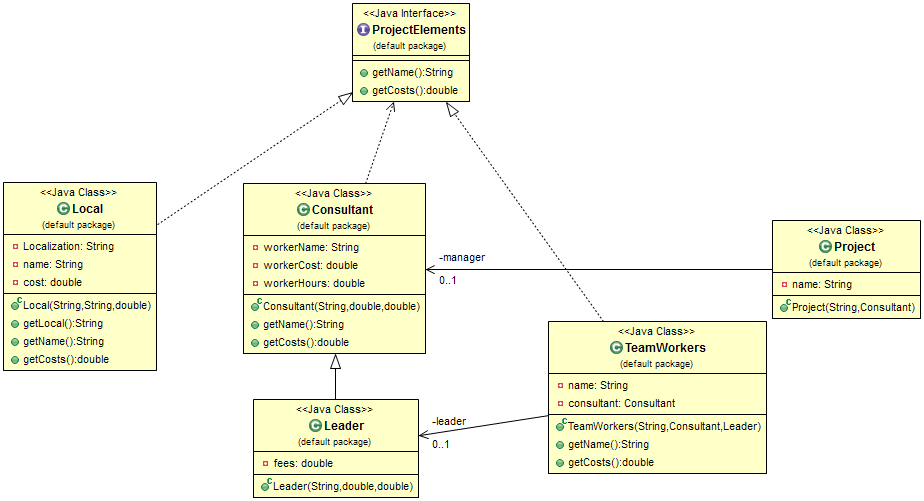
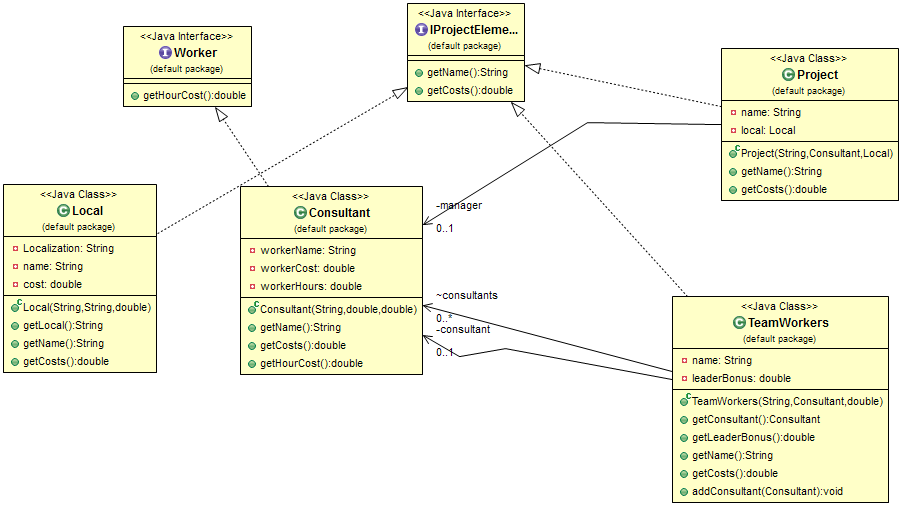
Secondversion

diff --git a/src/TeamWorkers.java b/src/TeamWorkers.java
@@ -1,20 +1,28 @@
 import java.util.ArrayList;
 
 
-public class TeamWorkers implements ProjectElements{
+public class TeamWorkers implements IProjectElements{
 
 	private String name;
 	private Consultant consultant;
-	private Leader leader;
+	private double leaderBonus;
+
 	ArrayList<Consultant> consultants = new ArrayList<Consultant>();
 	
-	public TeamWorkers(String name, Consultant consultant, Leader leader) {
-		this.consultant = consultant;
-		this.leader = leader;
+	public TeamWorkers(String name, Consultant leader, double leaderBonus) {
+		this.consultant = leader;
 		this.name = name;
+		this.leaderBonus = leaderBonus;
+		
 	}
 	
+	public Consultant getConsultant() {
+		return consultant;
+	}
 	
+	public double getLeaderBonus() {
+		return leaderBonus;
+	}
 	
 	@Override
 	public String getName() {
@@ -26,6 +34,13 @@ public class TeamWorkers implements ProjectElements{
 	public double getCosts() {
 		// TODO Auto-generated method stub
 		return 0;
+	}
+
+
+
+	public void addConsultant(Consultant consultant) {
+		this.consultants.add(consultant);
+		
 	}
 
 	

diff --git a/src/Consultant.java b/src/Consultant.java
@@ -1,5 +1,5 @@
 
-public class Consultant implements ProjectElements {
+public class Consultant implements Worker, IProjectElements  {
 
 	
 	private String workerName;
@@ -11,8 +11,7 @@ public class Consultant implements ProjectElements {
 		this.workerHours = hours;
 		this.workerName = name;
 	}
-	
-	
+
 	@Override
 	public String getName() {
 		// TODO Auto-generated method stub
@@ -24,5 +23,14 @@ public class Consultant implements ProjectElements {
 		// TODO Auto-generated method stub
 		return 0;
 	}
+
+	@Override
+	public double getHourCost() {
+		// TODO Auto-generated method stub
+		return 0;
+	}
+	
+	
+	
 
 }

diff --git a/src/IProject.java b/src/IProject.java
@@ -1,0 +1,6 @@
+
+public interface IProject {
+
+
+	public IProjectElements addProject();
+}

diff --git a/src/Worker.java b/src/Worker.java
@@ -1,0 +1,7 @@
+
+public interface Worker  {
+
+	
+	public double getHourCost();
+	
+}
